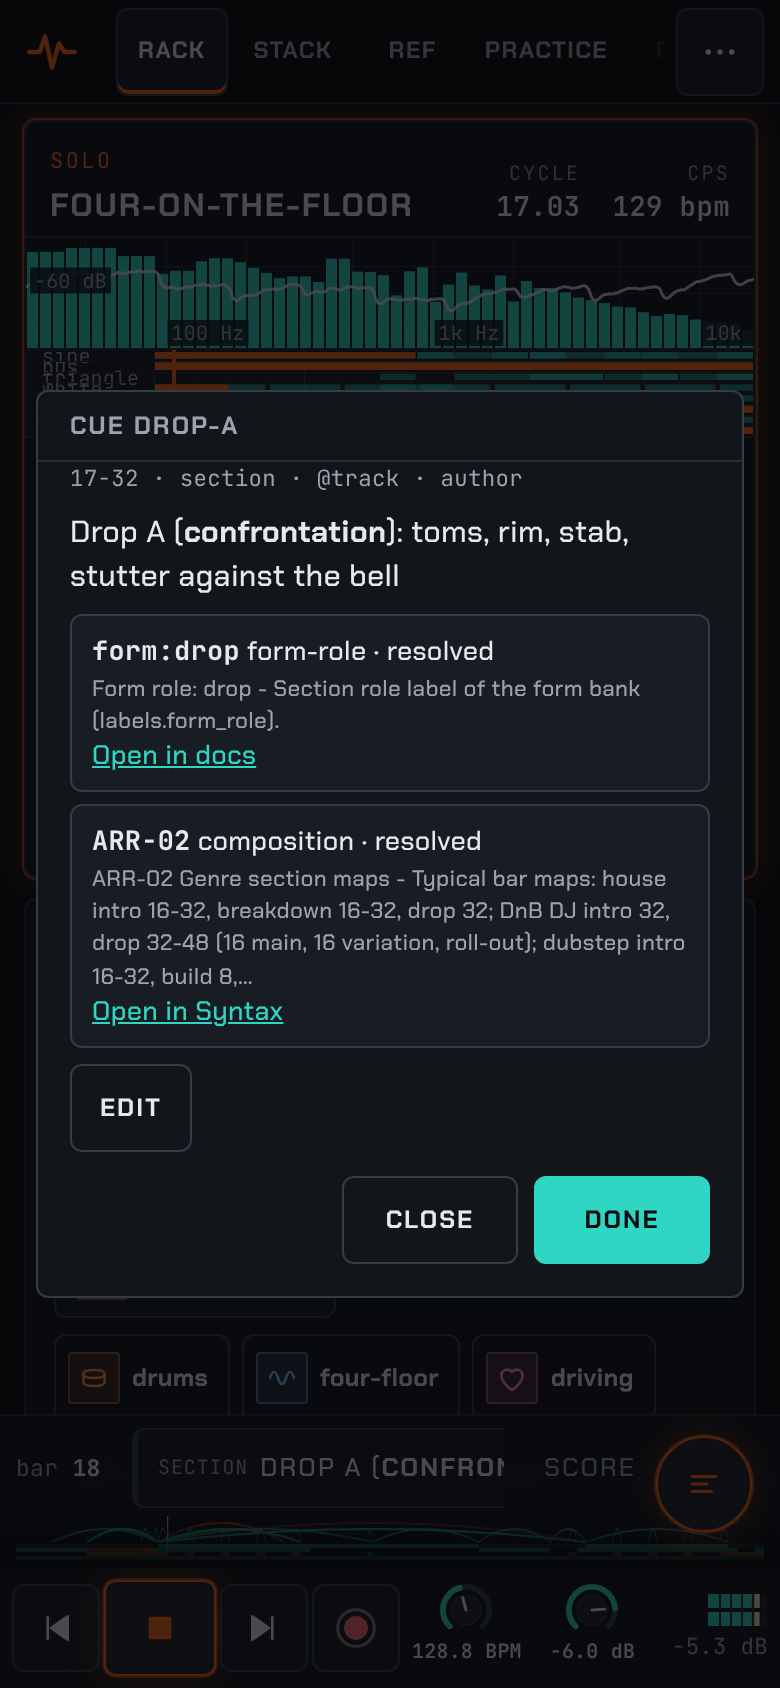
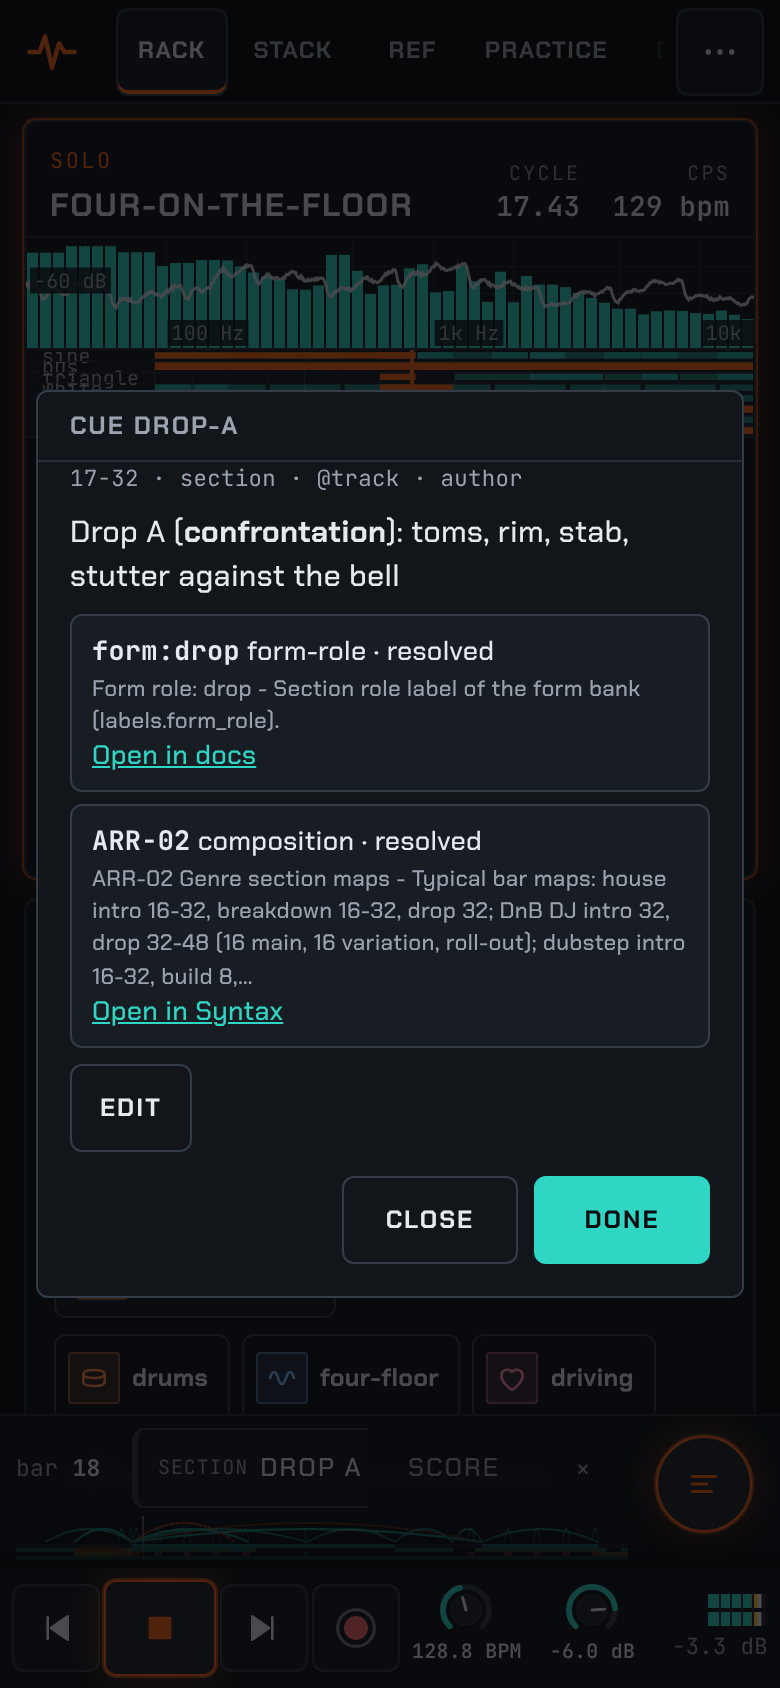
CraftCues UI: only the latest cue load commits (no stale program after a switch), empty active set re-renders, strip clear of the phone menu button; test waits for the transport before seeking. Refs #163
Claude-Session: https://claude.ai/code/session_01Tu9yF1Ta77zUw7h4fxzQMi

diff --git a/site/cues-ui.js b/site/cues-ui.js
@@ -13,7 +13,7 @@ const cssReady = new Promise((ok) => { if (document.querySelector('link[data-cu]
 const ls = { get: (k) => { try { return localStorage.getItem('sc.cues.' + k); } catch (e) { return null; } }, set: (k, v) => { try { if (v == null) localStorage.removeItem('sc.cues.' + k); else localStorage.setItem('sc.cues.' + k, v); } catch (e) { /* private mode */ } } };
 const off = () => { try { return localStorage.getItem('sc.cuesOff') === '1'; } catch (e) { return false; } };
 const hash = (s) => { let h = 2166136261; for (let i = 0; i < s.length; i++) { h ^= s.charCodeAt(i); h = Math.imul(h, 16777619) >>> 0; } return h.toString(36); };
-const st = { doc: null, key: null, code: null, sides: [], kbP: null, strip: null, shown: '', hot: [], clock: 'main', quick: null, raf: 0, sheet: null, filt: { kind: 'all', lane: '', ref: '' }, p: 1 };
+const st = { doc: null, key: null, code: null, sides: [], kbP: null, strip: null, shown: null, hot: [], clock: 'main', quick: null, raf: 0, sheet: null, filt: { kind: 'all', lane: '', ref: '' }, p: 1 };
 
 /* ---------------- sources ---------------- */
 const activeTa = () => document.getElementById(window.__sc && window.__sc.S && window.__sc.S.view === 'stack' ? 'stackCode' : 'code');
@@ -26,14 +26,17 @@ async function sidecars(s) {
   return Promise.all(hits.map((x) => { if (!sideCache.has(x.file)) sideCache.set(x.file, fetch(new URL('data/cues/' + x.file, document.baseURI)).then((r) => (r.ok ? r.text() : '')).catch(() => '')); return sideCache.get(x.file); }));
 }
 /* load(s) -> the merged doc of a program; cached until the code changes */
+let loadSeq = 0;
 export async function load(s = source(), force = false) {
   if (!force && st.doc && st.code === s.code) return st.doc;
+  const my = ++loadSeq; /* only the latest load commits: a slow earlier load (another program) never overwrites a newer one */
   const inline = C.extract(s.code || ''); inline.doc.cues.forEach((c) => { c._origin = 'inline'; });
   const side = (await sidecars(s)).filter(Boolean).map((t) => C.parse(t).doc);
   const key = keyOf(s); const mine = ls.get(key); const local = mine ? C.parse(mine).doc : null; if (local) local.cues.forEach((c) => { c._origin = 'local'; });
   const doc = C.merge(local, inline.doc, ...side); doc.header = { ...side.reduce((a, d) => ({ ...a, ...d.header }), {}), ...inline.doc.header, ...(local ? local.header : {}) };
   for (const c of doc.cues) if (!c._origin) c._origin = 'sidecar';
-  st.doc = doc; st.code = s.code; st.key = key; st.problems = inline.problems; return doc;
+  if (my !== loadSeq) return doc;
+  st.doc = doc; st.code = s.code; st.key = key; st.problems = inline.problems; tl = null; st.shown = null; return doc;
 }
 export const current = () => st.doc;
 function saveLocal(fn) { const mine = ls.get(st.key); const d = mine ? C.parse(mine).doc : { format: 'craftcues@1', header: {}, notes: [], cues: [] }; fn(d); ls.set(st.key, d.cues.length || d.notes.length ? C.print(d) : null); st.code = null; }
@@ -81,7 +84,7 @@ function hot(lanes) {
 let tl = null;
 function frame() {
   st.raf = requestAnimationFrame(frame); const p = position(); const el = st.strip;
-  if (p == null || off() || !st.doc || !st.doc.cues.length) { if (el && !el.hidden) { el.hidden = true; hot([]); st.shown = ''; } if (p == null && st.clock === 'quick') { st.clock = 'main'; st.code = null; } maybeReload(); return; }
+  if (p == null || off() || !st.doc || !st.doc.cues.length) { if (el && !el.hidden) { el.hidden = true; hot([]); st.shown = null; } if (p == null && st.clock === 'quick') { st.clock = 'main'; st.code = null; } maybeReload(); return; }
   maybeReload(); if (!el) return; if (el.hidden) { el.hidden = false; place(); }
   st.p = p; const b = Math.floor(p + 1e-9); const bb = el.querySelector('.cu-bar b'); if (bb.textContent !== String(b)) bb.textContent = String(b);
   if (!tl || tl.doc !== st.doc) { const t = timeline(st.doc); tl = { doc: st.doc, N: t.N }; el.querySelector('.cu-tl').innerHTML = t.svg; }
@@ -92,9 +95,9 @@ function frame() {
   hot([...new Set(act.flatMap((c) => C.scopeLanes(c.scope)))]);
 }
 let reloading = false, lastCheck = 0;
-function maybeReload() { const now = performance.now(); if (reloading || now - lastCheck < 400) return; lastCheck = now; if (st.clock === 'quick') return; const s = source(); if (s.code === st.code) return; reloading = true; load(s).then(() => { tl = null; st.shown = ''; }).finally(() => { reloading = false; }); }
+function maybeReload() { const now = performance.now(); if (reloading || now - lastCheck < 400) return; lastCheck = now; if (st.clock === 'quick') return; const s = source(); if (s.code === st.code) return; reloading = true; load(s).then(() => { tl = null; st.shown = null; }).finally(() => { reloading = false; }); }
 export async function attach() { await cssReady; strip(); await load(); if (!st.raf) frame(); }
-export async function attachQuick(d) { await cssReady; strip(); const r = C.extract(d.code); r.doc.cues.forEach((c) => { c._origin = 'quick'; }); st.doc = r.doc; st.code = null; st.clock = 'quick'; st.quick = d; tl = null; st.shown = ''; if (!st.raf) frame(); }
+export async function attachQuick(d) { await cssReady; strip(); const r = C.extract(d.code); r.doc.cues.forEach((c) => { c._origin = 'quick'; }); st.doc = r.doc; st.code = null; st.clock = 'quick'; st.quick = d; tl = null; st.shown = null; if (!st.raf) frame(); }
 export function toggleCaptions(on) { const v = on === undefined ? off() : on; try { localStorage.setItem('sc.cuesOff', v ? '0' : '1'); } catch (e) { /* private */ } if (sc.ui) sc.ui.toast(v ? 'Captions on' : 'Captions off (Ctrl+K: Captions on / off)'); if (v) attach(); }
 
 /* ---------------- editor: deliberate go to code, inline edits as one change ---------------- */

diff --git a/site/cues.css b/site/cues.css
@@ -47,3 +47,4 @@ dialog.cu-sheet[open]{display:flex}
 .cu-form{display:grid;gap:8px}.cu-form label{display:grid;gap:4px;font-size:.78rem;color:var(--dim)}
 .cu-form input,.cu-form select,.cu-form textarea{min-height:44px;background:var(--panel-2);color:var(--text);border:1px solid var(--line-2);border-radius:var(--r1);font:inherit;padding:4px 8px}
 .rs-cues{margin:10px 0}.rs-cues h3{font-family:var(--mono);font-size:.74rem;text-transform:uppercase;letter-spacing:.08em;color:var(--dim)}
+@media (max-width:700px){.cu-strip{padding-right:76px}} /* the round menu button floats at the bottom right on phones: keep the strip close button clear of it */
